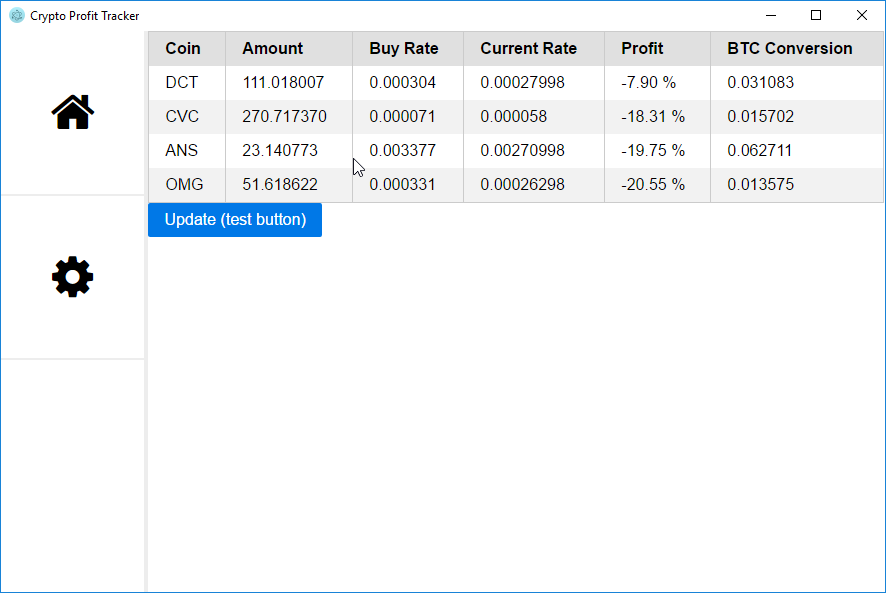
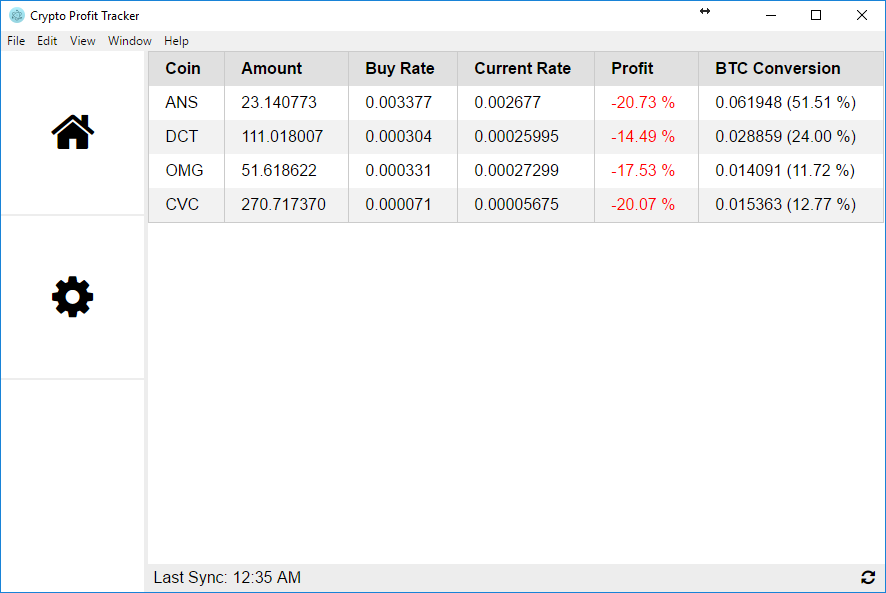
Added some basic UX (Hover effect, Loading Animation, Coloring, and some others.

diff --git a/assets/cpt.js b/assets/cpt.js
@@ -1,7 +1,11 @@
 const {ipcRenderer} = require('electron');
-const await = require('await')
+const await = require('await');
+const moment = require('moment');
 
 var homeHTML, settingHTML;
+var loadingHTML = "<i class=\"fa fa-spinner fa-spin fa-lg fa-fw\"></i>";
+var balances = [], tickers = [];
+var tableEntryCount = 0;
 
 // Use await to only setupPortfolioPage when HTMLs are ready
 var htmls = await('home', 'setting');
@@ -31,28 +35,31 @@ $("#settingBtn").click(function() {
 
 function setupPortfolioPage() {
 
-    var balances = [], tickers = [];
-
-    function createCoinEntry( balance ) {
-        var cName = balance.coin;
-        var amt = balance.amount;
-        var buyRate = balance.buy_rate;
-        var entry = "";
-
-        entry += "<td>" + cName + "</td>";
-        entry += "<td class='amt-" + cName +"'>" + amt + "</td>";
-        entry += "<td class='buy-rate-" + cName + "'>" + buyRate + "</td>";
-        entry += "<td class='cur-rate-" + cName + "'>0</td>";
-        entry += "<td class='profit-" + cName + "'>0</td>";
-        entry += "<td class='btc-conv-" + cName + "' >0</td>";
-
-        return entry;
+    function refreshSyncTime() {
+        var timeLabel = "Last Sync: " + moment().format("hh:mm A");
+        $(".cpt-last-sync").html( timeLabel );
     }
 
-    function updateBalances() {
+    function refreshBalances() {
+        function createCoinEntry( balance ) {
+            var coinName = balance.coin;
+            var amt = balance.amount;
+            var buyRate = balance.buy_rate;
+            var entry = "";
+
+            entry += "<td>" + coinName + "</td>";
+            entry += "<td class='amt-" + coinName +"'>" + amt + "</td>";
+            entry += "<td class='buy-rate-" + coinName + "'>" + buyRate + "</td>";
+            entry += "<td class='cur-rate-" + coinName + "'></td>";
+            entry += "<td class='profit-" + coinName + "'></td>";
+            entry += "<td class='btc-conv-" + coinName + "' ></td>";
+
+            return entry;
+        }
+
         for( var i = 0; i < balances.length; i++ ) {
             var balance = balances[i];
-            var cName = balance.coin;
+            var coinName = balance.coin;
             var amt = balance.amount = parseFloat(balance.amount).toFixed(6);
             var buyRate;
 
@@ -62,69 +69,157 @@ function setupPortfolioPage() {
                 buyRate = balance.buy_rate = parseFloat(balance.buy_rate).toFixed(6);
             }
 
-            if( balance.amount != 0 ) {
-                if($(".coin-" + cName).length == 0) {
+            if( balance.amount > 0 ) {
+                if($(".coin-" + coinName).length == 0) {
                     // Insert entry <tr> to the HTML if does not exist yet
-                    if( i % 2 == 0 ) {
-                        $("#cpt-balances").append("<tr class='coin-" + cName + "'></tr>");
+                    if( tableEntryCount++ % 2 == 0 ) {
+                        $("#cpt-balances").append("<tr class='coin-" + coinName + "'></tr>");
                     } else {
-                        $("#cpt-balances").append("<tr class=\"coin-" + cName + " pure-table-odd\"></tr>");
+                        $("#cpt-balances").append("<tr class=\"coin-" + coinName + " pure-table-odd\"></tr>");
                     }
 
                     // Insert the entry to the created TR
                     var entry = createCoinEntry( balance );
-                    $(".coin-" + cName).append(entry);
+                    $(".coin-" + coinName).append(entry);
+                    setTickerLoading( coinName );
                 } else {
                     // Only update the HTML entries
-                    $(".amt-" + cName).html( amt );
-                    $(".buy-rate-" + cName).html( buyRate );
-                    $(".cur-rate-" + cName).html( "0" );
-                    $(".profit-" + cName).html( "0" );
-                    $(".btc-conv-" + cName).html( "0" );
+                    $(".amt-" + coinName).html( amt );
+                    $(".buy-rate-" + coinName).html( buyRate );
                 }
             }
         }
     }
 
-    function updateTicker( ticker ) {
+    function setBalanceLoading( coinName ) {
+        $(".amt-" + coinName).html( loadingHTML );
+        $(".buy-rate-" + coinName).html( loadingHTML );
+    }
+
+    function setBalancesLoading() {
+        balances.forEach((balance) => {
+            setBalanceLoading( balance.coin );
+        });
+    }
+
+    function setTickerLoading( coinName ) {
+        $(".cur-rate-" + coinName).html( loadingHTML );
+        $(".profit-" + coinName).html( loadingHTML );
+        $(".btc-conv-" + coinName).html( loadingHTML );
+    }
+
+    function setTickersLoading() {
+        balances.forEach((balance) => {
+            setTickerLoading( balance.coin );
+        });
+    }
+
+    function allTickerFilled() {
+        var allTickerFilled = true;
+
+        balances.forEach((balance) => {
+            if( balance.amount > 0 ) {
+                var curRate = $(".cur-rate-" + balance.coin).html();
+                if( isNaN(curRate) ) {
+                    allTickerFilled = false;
+                }
+            }
+        });
+
+        return allTickerFilled;
+    }
+
+    function fillTicker( ticker ) {
         var coinName = ticker.Coin;
         var curRate = ticker.Last;
         var buyRate = $(".buy-rate-" + coinName).html();
         var amount = $(".amt-" + coinName).html();
-        var profit = (curRate - buyRate) / buyRate;
 
-        $(".cur-rate-" + coinName).html( curRate );
-        $(".profit-" + coinName).html( (profit * 100).toFixed(2) + " %" );
-        $(".btc-conv-" + coinName).html( (amount * curRate).toFixed(6) );
+        if( amount > 0 ) {
+            var profit = (curRate - buyRate) / buyRate;
+            var profitDisplay = (profit * 100).toFixed(2) + " %";
+            if( profit < 0 ) {
+                profitDisplay = "<label class=\"cpt-profit-negative\">" + profitDisplay + "</label>";
+            } else {
+                profitDisplay = "<label class=\"cpt-profit-positive\">" + profitDisplay + "</label>";
+            }
+
+            $(".cur-rate-" + coinName).html( curRate );
+            $(".profit-" + coinName).html( profitDisplay );
+
+            var conversion = amount * curRate;
+            $(".btc-conv-" + coinName).html( conversion.toFixed(6) +
+            " (<label class=\"btc-conv-rat-" + coinName + "\">" + loadingHTML + "</label>)" );
+
+            if( allTickerFilled() ) {
+                refreshConversion();
+            }
+        }
+    }
+
+    function refreshConversion() {
+        var conversionTotal = 0;
+        var conversions = {};
+
+        balances.forEach((balance) => {
+            if( balance.amount > 0 ) {
+                var curRate = $(".cur-rate-" + balance.coin).html();
+                var amount = $(".amt-" + balance.coin).html();
+                var total = amount * curRate;
+                conversions[balance.coin] = total;
+                conversionTotal += total;
+            }
+        });
+
+        balances.forEach((balance) => {
+            if( balance.amount > 0 ) {
+                var conversion = conversions[balance.coin];
+                var html = ((conversion / conversionTotal) * 100).toFixed(2) + " %";
+                $(".btc-conv-rat-" + balance.coin).html( html );
+            }
+        });
     }
 
     function initPortfolio() {
         $("#cpt-mainwindow").html( homeHTML );
 
+        refreshBalances();
+
         $(".cpt-update").click(function() {
+            setBalancesLoading();
+            setTickersLoading();
             ipcRenderer.send('update_portfolio');
         });
     }
 
+    function updateTicker() {
+        ipcRenderer.send('update_ticker', balances);
+    }
+
+    // Balances stored from last fetch from the DB
     ipcRenderer.on('reply_balances', (event,arg) => {
         balances = arg;
-        updateBalances();
-        ipcRenderer.send('update_ticker', balances);
+        refreshBalances();
+        updateTicker();
     });
 
+    // Current Balance on Bittrex
     ipcRenderer.on('reply_update_portfolio', (event,arg) => {
         balances = arg;
-        updateBalances();
-        ipcRenderer.send('update_ticker', balances);
+        refreshBalances();
+        updateTicker();
+        refreshSyncTime();
     });
 
+    // Current Ticker (Last Bid) on Bittrex
     ipcRenderer.on('reply_ticker', (event,arg) => {
         tickers.push( arg );
-        updateTicker( arg );
+        fillTicker( arg );
     });
 
+    // Set the HTML on Main Window,
     initPortfolio();
-    ipcRenderer.send('request_balances');
+    ipcRenderer.send('update_portfolio');
 }
 
 function setupSettingPage() {

diff --git a/assets/style.css b/assets/style.css
@@ -42,12 +42,44 @@ body {
     border-bottom: solid 2px #ededed;
 }
 
+.cpt-sidebar ul li:hover {
+    background: #ededed;
+    cursor: pointer;
+}
+
 /*
  * Main table CSS
  */
 
 #cpt-mainwindow table {
     width: 100%;
+}
+
+.cpt-portfolio-footer {
+    position: absolute;
+    bottom: 0;
+    box-sizing: border-box;
+    width: inherit;
+    background: #ededed;
+    padding: 5px;
+}
+
+.cpt-update {
+    display: inline-block;
+    position: absolute;
+    right: 10px;
+}
+
+.cpt-update:hover {
+    cursor: pointer;
+}
+
+.cpt-profit-positive {
+    color: green;
+}
+
+.cpt-profit-negative {
+    color: red;
 }
 
 /*

diff --git a/main.js b/main.js
@@ -33,8 +33,13 @@ app.on('ready', () => {
         backgroundColor: '#fff'
     });
 
-    mainWindow.setMenu(null);
+    //mainWindow.setMenu(null);
     mainWindow.loadURL('file://' + __dirname + '/index.html');
+
+    mainWindow.on('close', function (event) {
+        mainWindow.hide();
+        event.preventDefault();
+    })
 });
 
 ipcMain.on('bittrex_auth_add', (event, arg) => {

diff --git a/home.html b/home.html
@@ -13,6 +13,9 @@
     </tbody>
 </table>
 
-<label class="cpt-update pure-button pure-button-primary">Update (test button)</label>
-
-<script src="assets/cpt-portfolio.js"></script>
+<div class="cpt-portfolio-footer">
+    <label class="cpt-last-sync"></label>
+    <div class="cpt-update">
+        <i class="fa fa-refresh" aria-hidden="true"></i>
+    </div>
+</div>

diff --git a/README.md b/README.md
@@ -48,14 +48,14 @@ Created using [creately.com](https://creately.com/)
 
 [x] Display all assets and the average buy rate of it.
 
-[ ] Fix bug where updated ticker will mess the order of the odd and non-odd <td>
+[x] Fix bug where updated ticker will mess the order of the odd and non-odd <td>
 
-[ ] Update UI to match initial mock, show last sync time and sync button on the bottom of the window.
+[x] Update UI to match initial mock, show last sync time and sync button on the bottom of the window.
 
 [ ] Design a database structure to keep the portfolio and the last transaction sync'd. (Currently it's fetching all transactions and recalculating every time)
 
 [ ] Sort by field.
 
-[ ] Show loading animation if data is being fetched.
+[x] Show loading animation if data is being fetched.
 
-[ ] Effect for Sidebar Buttons Hover.
+[x] Effect for Sidebar Buttons Hover.
